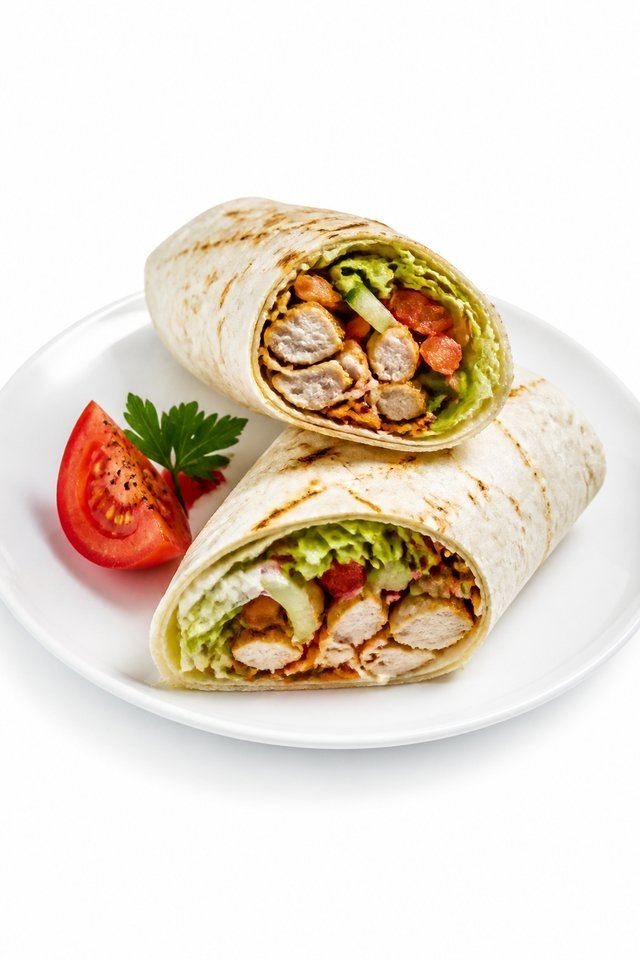
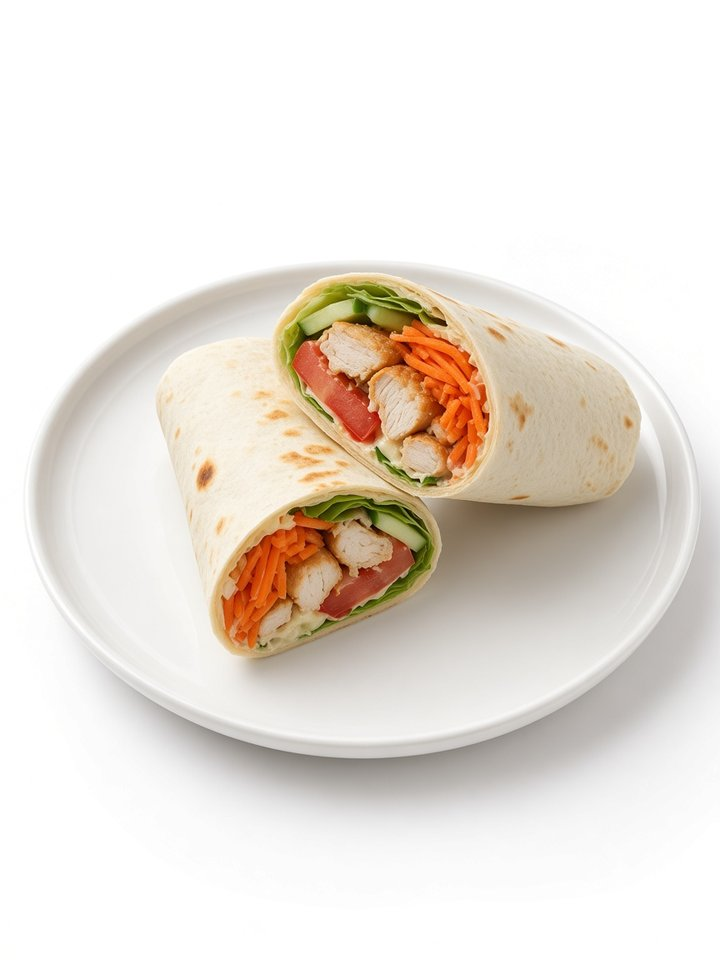
Regenerate sandwich-roll photo from Sensorica
White-studio tortilla wrap on a white plate, Sensorica filling copy, ASSET_VER 20260908-rolly.

diff --git a/menu/board.html b/menu/board.html
@@ -7,7 +7,7 @@
   <link rel="preconnect" href="https://fonts.googleapis.com">
   <link rel="preconnect" href="https://fonts.gstatic.com" crossorigin>
   <link href="https://fonts.googleapis.com/css2?family=Onest:wght@400;500;600&family=Unbounded:wght@500;600;700&display=swap" rel="stylesheet">
-  <link rel="stylesheet" href="assets/css/menu.css?v=20260908-food-real">
+  <link rel="stylesheet" href="assets/css/menu.css?v=20260908-rolly">
 </head>
 <body>
   <div class="board" id="board">
@@ -27,7 +27,7 @@
   </div>
 
   <script>
-    const ASSET_VER = '20260908-food-real';
+    const ASSET_VER = '20260908-rolly';
     const MENU_DISCOUNT_PERCENT = 20;
     const PRELOAD_RADIUS = 2;
     const ROTATE_KEY = 'cf-menu-rotate';

diff --git a/.ai/IMAGE_GEN_RULES.md b/.ai/IMAGE_GEN_RULES.md
@@ -28,7 +28,7 @@ deploy: `coffee-friends-menu` / `coffee-menu` GitHub Pages
 ### Еда (food)
 - Белая студия `#FFFFFF`; тарелка / бокс / пергамент — ок
 - Тот же белый фон и свет, **без** текста/лого/бейджей веса
-- Референс продукта (не UI сайта): Double Double — пергамент+цветная завязка; Sensorica — чиабатта/круассаны с начинкой, салаты, тост-сэндвичи, горячее как шницель/паста/рис
+- Референс продукта (не UI сайта): Double Double — пергамент+цветная завязка; Sensorica — чиабатта/круассаны с начинкой, салаты, тост-сэндвичи, тортилья-роллы (разрез по диагонали), горячее как шницель/паста/рис
 - Не копировать тёмный UI Sensorica и фиолетовый фон doubledouble.ru
 
 ### Техпроцесс

diff --git a/.ai/CONTEXT.md b/.ai/CONTEXT.md
@@ -1,6 +1,6 @@
 # MarketingCofe — CoffeeFriends digital menu
 
-context_version: 25
+context_version: 26
 updated: 2026-09-08
 
 ## Цель
@@ -9,8 +9,8 @@ updated: 2026-09-08
 
 ## Статус
 
-- Live: `ASSET_VER=20260908-food-real`
-- Еда: фото под наши правила (белый фон) + вид продукта Double Double / Sensorica
+- Live: `ASSET_VER=20260908-rolly`
+- Еда: тортилья-ролл Sensorica перегенерирован (белый фон, белая тарелка)
 - Скидка 20% только на напитки
 
 ## Следующий шаг
